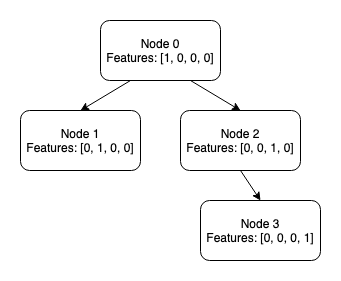
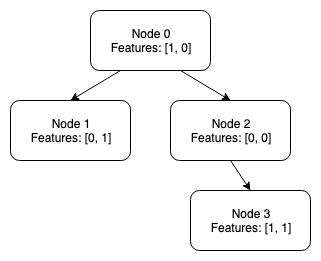
Cleanup README and variable renames, simplify tree example

Changed region(s): [[0.0312, 0.0307, 0.9657, 0.9808]]

diff --git a/example_usage.py b/example_usage.py
@@ -1,6 +1,6 @@
 import torch
 
-from tree_lstm import TreeLSTM
+from treelstm import TreeLSTM
 
 
 def _label_node_walk_order(node, n=0):
@@ -72,17 +72,17 @@ def convert_tree_to_tensors(tree, device=torch.device('cpu')):
 if __name__ == '__main__':
     # Toy example
     tree = {
-        'features': [1, 0, 0, 0], 'labels': [1], 'children': [
-            {'features': [0, 1, 0, 0], 'labels': [0], 'children': []},
-            {'features': [0, 0, 1, 0], 'labels': [0], 'children': [
-                {'features': [0, 0, 0, 1], 'labels': [0], 'children': []}
+        'features': [1, 0], 'labels': [1], 'children': [
+            {'features': [0, 1], 'labels': [0], 'children': []},
+            {'features': [0, 0], 'labels': [0], 'children': [
+                {'features': [1, 1], 'labels': [0], 'children': []}
             ]},
         ],
     }
 
     data = convert_tree_to_tensors(tree)
 
-    model = TreeLSTM(4, 1).train()
+    model = TreeLSTM(2, 1).train()
 
     loss_function = torch.nn.BCEWithLogitsLoss()
     optimizer = torch.optim.Adam(model.parameters())

diff --git a/treelstm/__init__.py b/treelstm/__init__.py
@@ -1,2 +1,2 @@
-from .batch_tensors import (batch, unbatch)
+from .batch_tensors import (batch_tree_input, unbatch_tree_tensor)
 from .tree_lstm import TreeLSTM

diff --git a/README.md b/README.md
@@ -48,10 +48,10 @@ set intersection function in PyTorch 1.0.
 The tensor representation of the example tree above would be:
 
 ```python
-features: tensor([[1., 0., 0., 0.],
-                  [0., 1., 0., 0.],
-                  [0., 0., 1., 0.],
-                  [0., 0., 0., 1.]])
+features: tensor([[1., 0.],
+                  [0., 1.],
+                  [0., 0.],
+                  [1., 1.]])
 
 node_evaluation_order: tensor([2, 0, 1, 0])
 
@@ -119,9 +119,9 @@ torch.split(tensor, tree_sizes, dim=0)
 ```
 
 Where `tree_sizes` is a list containing the number of nodes in each tree in the
-batch.  This function is also provided by the `treelstm.unbatch_tree_input`
+batch.  This function is also provided by the `treelstm.unbatch_tree_tensor`
 function for convenience.  As mentioned above, a `tree_sizes` list suitable for
-use by this function is generated by `batch_tensors.batch_tree_input`.
+use by this function is generated by `batch_tensors.batch_tree_tensor`.
 
 ## Example
 
